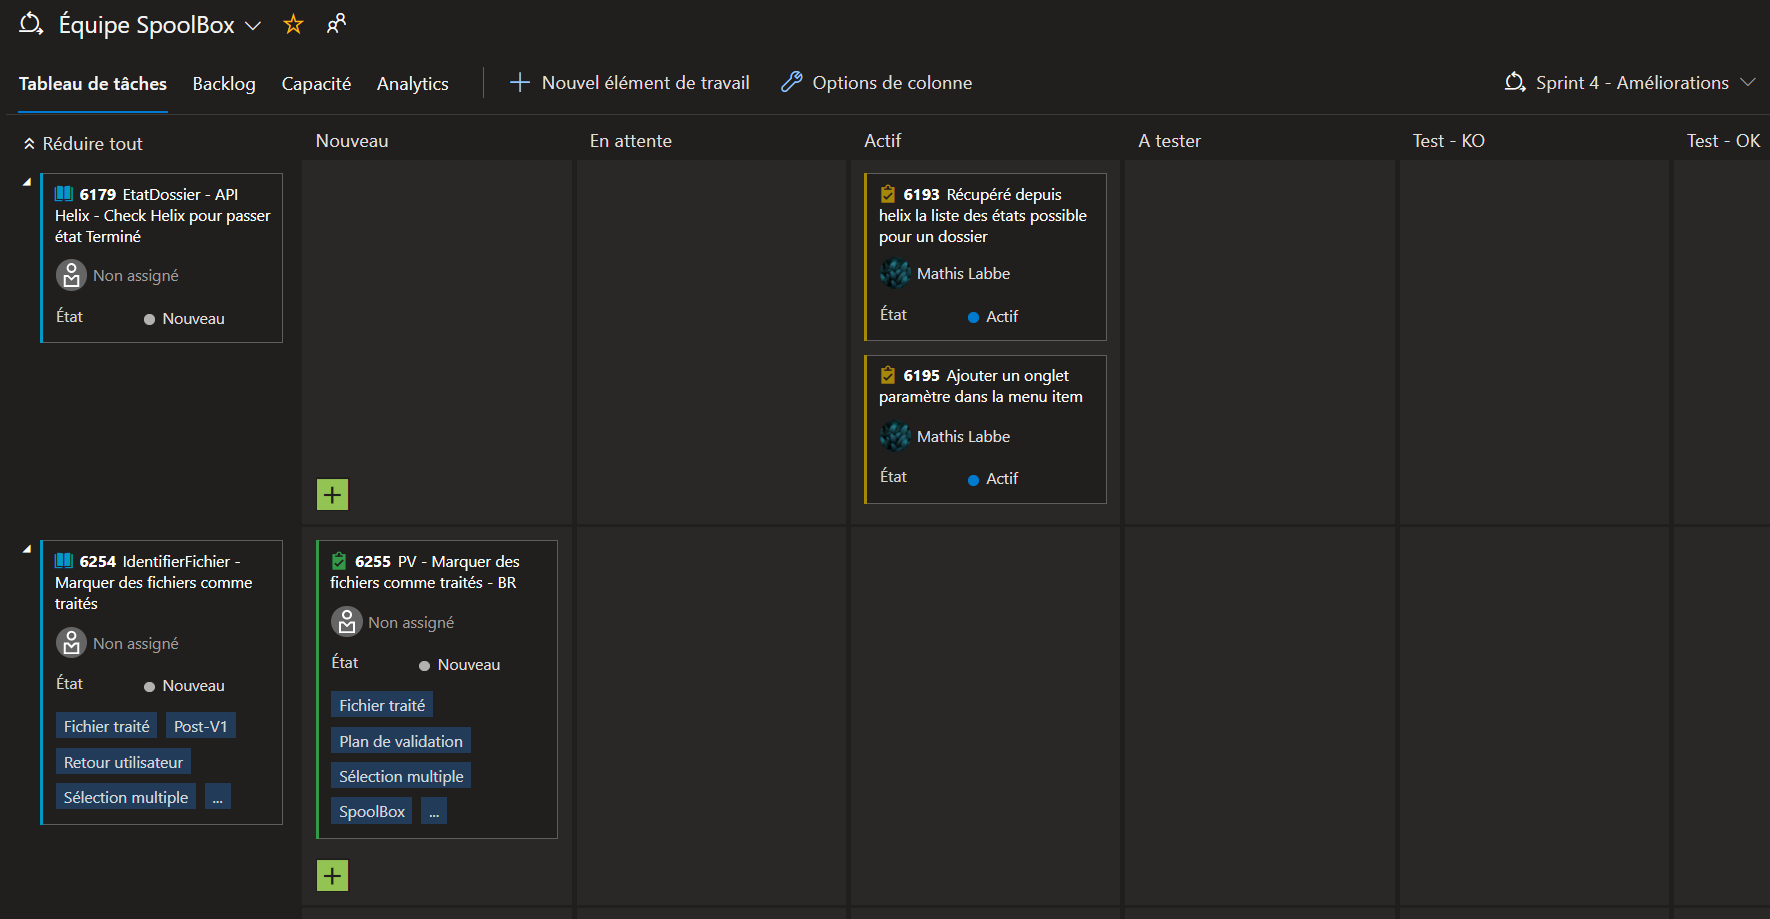
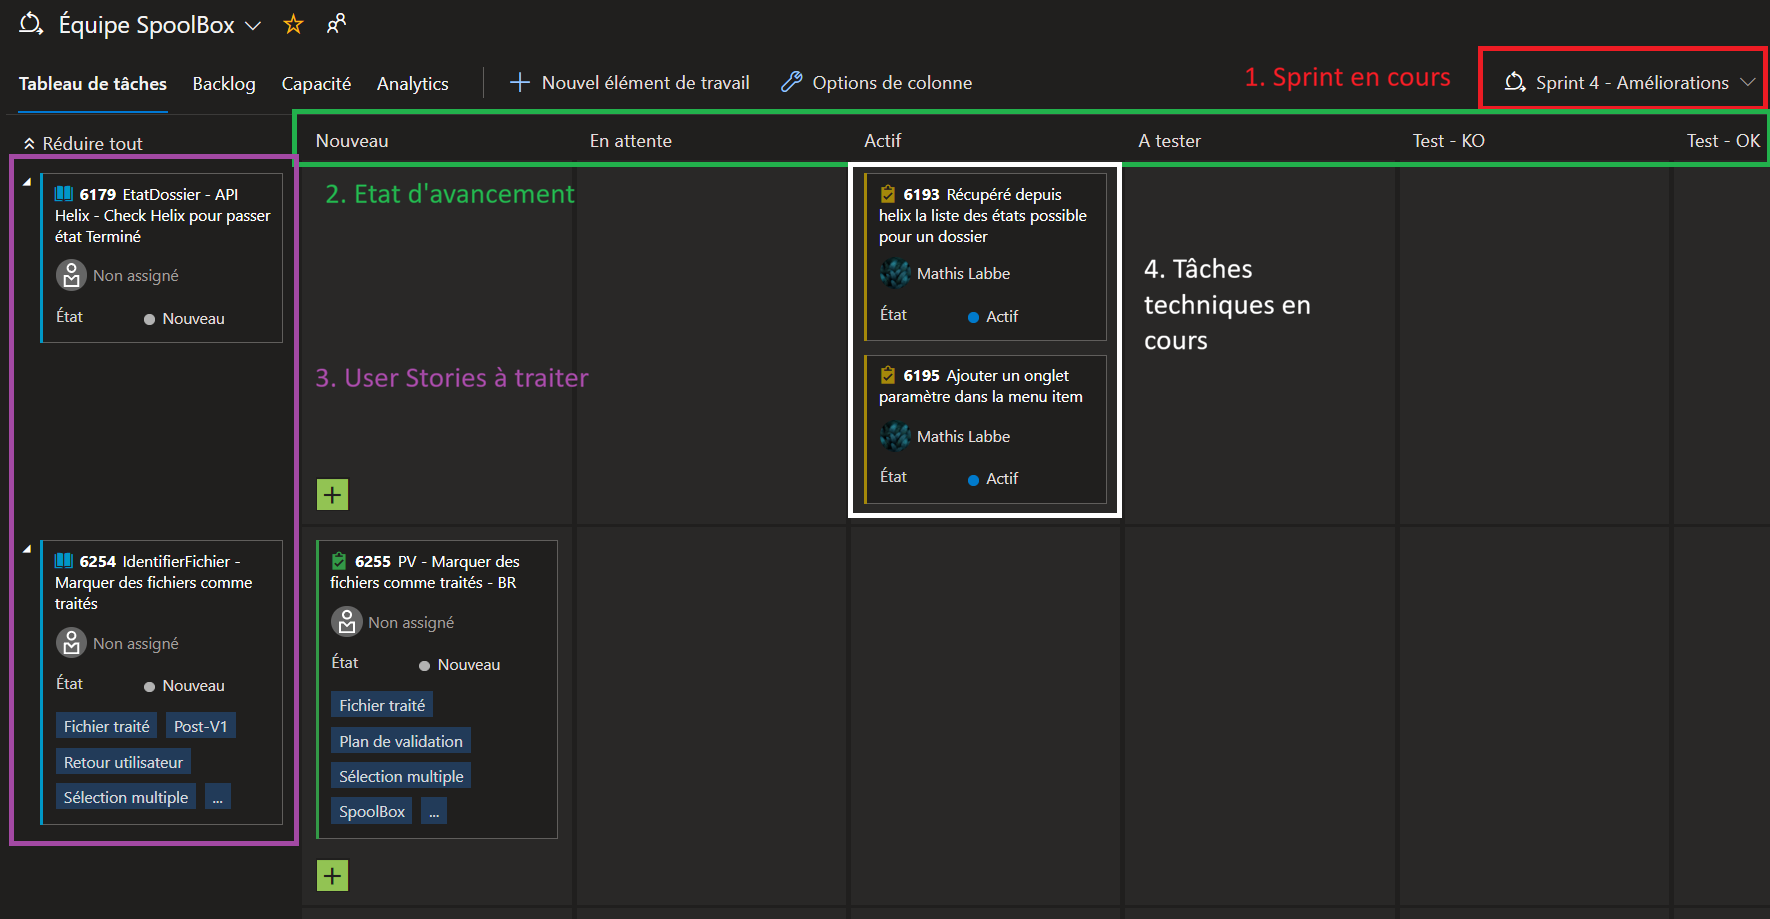
Partie 2

diff --git a/suivi-projet.html b/suivi-projet.html
@@ -51,142 +51,287 @@
 
         <div class="sub-content">
           <article id="suivi-sprint" class="subpage active" data-group="suivi">
-            <h3>Découper une User Story en tâches techniques</h3>
+            <h3>Suivre l'avancement d'un sprint avec Azure DevOps</h3>
+
             <div class="tag-list">
               <span class="tag projet-color">Comprendre une User Story</span>
-              <span class="tag projet-color">Créer des tâches techniques</span>
-              <span class="tag projet-color">Estimer la difficulté</span>
+              <span class="tag technique-color">Gérer des tâches techniques</span>
+              <span class="tag integration-color">Suivre l'avancement</span>
             </div>
 
             <figure class="trace">
-              <div class="trace-placeholder">
-                <strong>Trace 4 à insérer</strong>
-                <span>Capture Azure DevOps : sprint, User Stories et tâches</span>
-                <small>Nom conseillé : assets/images/trace-4-sprint-devops.png</small>
+              <div class="trace-image">
+                <img src="assets/images/SprintDevOps.png" alt="Tableau de tâches Azure DevOps du sprint SpoolBox">
               </div>
+
               <figcaption>
-                Trace 4 - Sprint Azure DevOps montrant les User Stories, les tâches techniques et leur
-                avancement.
+                Trace 4 - Tableau de tâches Azure DevOps du sprint 4 du projet SpoolBox. Cette capture montre
+                le sprint en cours, les colonnes d'avancement, les User Stories à traiter et les tâches techniques
+                actuellement actives.
               </figcaption>
             </figure>
 
             <p>
-              La <strong>trace 4</strong> montre l'organisation du travail dans Azure DevOps. Une User Story
-              correspond à une tâche fonctionnelle. Pour avancer concrètement, je dois ensuite la découper
-              en tâches techniques plus précises.
+              La <strong>trace 4</strong> présente le tableau de tâches Azure DevOps utilisé pendant le
+              <strong>sprint 4 - Améliorations</strong> du projet SpoolBox. Il permet de suivre l'organisation du travail
+              pendant un sprint, depuis les éléments à faire jusqu'aux tâches terminées ou à tester.
             </p>
+
             <p>
-              Ce fonctionnement m'a permis de développer le savoir-faire <span class="mark projet-color">traduire
-              un besoin fonctionnel en tâches techniques</span>. Je dois comprendre ce qui est demandé, identifier
-              les étapes de développement, puis estimer la difficulté avec l'équipe.
+              Cette trace met d'abord en avant le savoir-faire
+              <span class="mark integration-color">suivre l'avancement</span>.
+              Le repère <strong>1</strong> indique le sprint en cours, ce qui permet de situer les tâches dans une période
+              de travail précise. Le repère <strong>2</strong> montre les colonnes du tableau, comme
+              <strong>Nouveau</strong>, <strong>Actif</strong>, <strong>À tester</strong>, <strong>Test - KO</strong>
+              et <strong>Test - OK</strong>. Ces colonnes permettent de visualiser rapidement l'état d'avancement de chaque
+              élément.
             </p>
+
             <p>
-              Les estimations sont discutées avec les collègues. Chacun donne une note de 0 à 10, puis l'équipe
-              échange pour identifier les difficultés possibles. Cette méthode m'aide à mieux prévoir mon travail,
-              même si l'organisation et l'anticipation restent des axes de progression pour moi.
+              On retrouve aussi le savoir-faire
+              <span class="mark projet-color">comprendre une User Story</span>.
+              Le repère <strong>3</strong> montre les User Stories à traiter. Une User Story correspond à un besoin ou à une
+              amélioration demandée sur l'application. Avant de développer, je dois comprendre l'objectif du ticket, identifier
+              ce qui est attendu et repérer les parties du projet concernées.
+            </p>
+
+            <p>
+              Enfin, cette trace illustre le savoir-faire
+              <span class="mark technique-color">gérer des tâches techniques</span>.
+              Le repère <strong>4</strong> montre des tâches placées dans la colonne <strong>Actif</strong>. Cela signifie
+              qu'elles sont en cours de développement. Certaines tâches me sont assignées, ce qui montre ma participation
+              directe au sprint et au développement de SpoolBox.
+            </p>
+
+            <p>
+              Cette organisation m'aide à mieux structurer mon travail. Au lieu de travailler uniquement sur le code, je dois
+              aussi suivre l'état de mes tâches, expliquer mon avancement et signaler les éventuelles difficultés. C'est un
+              point important dans mon évolution, car l'organisation, l'anticipation et le fait de rendre compte de mon activité
+              sont des compétences que je continue de développer en entreprise.
             </p>
           </article>
 
           <article id="suivi-pr" class="subpage" data-group="suivi">
             <h3>Améliorer son code grâce aux Pull Requests</h3>
+
             <div class="tag-list">
-              <span class="tag projet-color">Soumettre son code</span>
-              <span class="tag technique-color">Corriger après revue</span>
-              <span class="tag integration-color">Accepter les retours</span>
+              <span class="tag projet-color">Préparer une Pull Request</span>
+              <span class="tag technique-color">Comparer et corriger le code</span>
+              <span class="tag integration-color">Prendre en compte les retours</span>
             </div>
 
             <figure class="trace">
-              <div class="trace-placeholder">
-                <strong>Trace 5 à insérer</strong>
-                <span>Capture d'une Pull Request ou d'une revue de code</span>
-                <small>Nom conseillé : assets/images/trace-5-pull-request.png</small>
+              <div class="trace-image">
+                <img src="assets/images/RevueDeCode.png" alt="Pull Request Azure DevOps avec comparaison de code">
               </div>
+
               <figcaption>
-                Trace 5 - Exemple de Pull Request avec relecture du code par un collègue et retours à
-                prendre en compte.
+                Trace 5 - Pull Request Azure DevOps sur le projet SpoolBox. Cette capture montre le fichier modifié,
+                la comparaison du code avant/après correction et l'étape de revue avant la fusion vers la branche principale.
               </figcaption>
             </figure>
 
             <p>
-              La <strong>trace 5</strong> présente une Pull Request. Lorsqu'une fonctionnalité est terminée,
-              le code peut être relu par un collègue. Cette relecture permet de repérer des erreurs, de proposer
-              une meilleure solution ou d'améliorer la lisibilité du code.
+              La <strong>trace 5</strong> présente une Pull Request réalisée sur le projet SpoolBox. Une Pull Request
+              permet de proposer des modifications de code avant de les intégrer dans la branche principale du projet.
+              Dans cette capture, le travail est proposé depuis une branche de développement vers la branche
+              <strong>main</strong>.
             </p>
+
             <p>
-              Ce savoir-faire est important car le développement en entreprise ne consiste pas seulement à faire
-              fonctionner son code. Il faut aussi produire un code compréhensible, maintenable et conforme aux
-              règles de l'équipe.
+              Cette trace met d'abord en avant le savoir-faire
+              <span class="mark projet-color">préparer une Pull Request</span>.
+              Le repère <strong>1</strong> montre le fichier modifié, ici
+              <strong>SpoolBox_TabControl.xaml.cs</strong>, ainsi que le nombre de lignes supprimées et ajoutées.
+              Cela permet d'identifier rapidement les parties du projet concernées par la modification.
             </p>
+
             <p>
-              Au départ, recevoir des retours peut être frustrant, car cela donne l'impression que le travail
-              n'est pas terminé. Avec l'expérience, j'ai compris que la revue de code est surtout un moyen de
-              progresser et d'éviter que des erreurs arrivent en production.
+              On retrouve aussi le savoir-faire
+              <span class="mark technique-color">comparer et corriger le code</span>.
+              Le repère <strong>2</strong> montre la comparaison entre l'ancienne version du code et la nouvelle version.
+              Les lignes rouges correspondent au code supprimé ou remplacé, tandis que les lignes vertes correspondent
+              au code ajouté. Cette vue permet de vérifier précisément ce qui a changé avant d'accepter la modification.
+            </p>
+
+            <p>
+              Enfin, cette trace illustre le savoir-faire
+              <span class="mark integration-color">prendre en compte les retours</span>.
+              Le repère <strong>3</strong> montre que les commentaires de revue sont résolus et que la Pull Request peut
+              passer à l'étape de validation. La revue de code permet à l'équipe de contrôler la qualité du code, de
+              proposer des améliorations et d'éviter d'intégrer des erreurs dans le projet.
+            </p>
+
+            <p>
+              Cette méthode m'a fait progresser dans ma manière de travailler. Je dois produire un code lisible, maintenable et conforme aux règles de
+              l'équipe. Les Pull Requests m'aident donc à prendre du recul sur mon travail, à accepter les corrections et
+              à améliorer progressivement ma qualité de développement.
             </p>
           </article>
 
           <article id="suivi-burndown" class="subpage" data-group="suivi">
-            <h3>Suivre l'avancement d'un sprint</h3>
+            <h3>Suivre l'avancement d'un sprint avec un burndown chart</h3>
+
             <div class="tag-list">
               <span class="tag projet-color">Suivre les points restants</span>
-              <span class="tag projet-color">Identifier les blocages</span>
+              <span class="tag technique-color">Analyser l'avancement</span>
               <span class="tag integration-color">Rendre compte de son activité</span>
             </div>
 
             <figure class="trace">
-              <div class="trace-placeholder">
-                <strong>Trace 6 à insérer</strong>
-                <span>Capture du burndown chart ou du suivi des points restants</span>
-                <small>Nom conseillé : assets/images/trace-6-burndown-chart.png</small>
+              <div class="trace-image">
+                <img src="assets/images/SuiviDuSprint.png" alt="Burndown chart Azure DevOps du sprint SpoolBox">
               </div>
+
               <figcaption>
-                Trace 6 - Suivi de l'avancement d'un sprint à partir des points restants et des tâches
-                terminées.
+                Trace 6 - Burndown chart Azure DevOps du sprint SpoolBox. Cette capture montre l'évolution
+                des points restants, la portée totale du sprint et la tendance idéale attendue.
               </figcaption>
             </figure>
 
             <p>
-              La <strong>trace 6</strong> montre le suivi d'avancement du sprint. Les tâches sont estimées en
-              points, ce qui permet de suivre la quantité de travail restante plutôt que seulement le nombre de
-              tâches terminées.
+              La <strong>trace 6</strong> présente le burndown chart d'un sprint du projet SpoolBox. Ce graphique
+              permet de suivre l'avancement du travail sur une période donnée, ici du <strong>05/05/2026</strong>
+              au <strong>12/06/2026</strong>. Il donne une vision globale du travail restant et permet de vérifier
+              si le sprint avance correctement.
             </p>
+
             <p>
-              Ce fonctionnement m'aide à mieux visualiser l'état du projet. Tous les matins, la daily permet de
-              dire ce qui a été fait la veille, ce qui est prévu aujourd'hui et les éventuels blocages.
+              Cette trace met d'abord en avant le savoir-faire
+              <span class="mark projet-color">suivre les points restants</span>.
+              Le graphique affiche le nombre de points restants au fil du temps. Dans cette capture, le sprint est
+              terminé à <strong>100%</strong> et le nombre de points restants est à <strong>0</strong>. Cela permet
+              de voir rapidement que les éléments prévus ont été réalisés.
             </p>
+
             <p>
-              Cette méthode m'a fait progresser sur le savoir-faire <span class="mark integration-color">rendre
-              compte de mon activité</span>. C'est encore un point que je dois améliorer, car j'ai parfois du mal à
-              valoriser ce que j'ai fait et je vois plus facilement les difficultés que les réussites.
+              On retrouve aussi le savoir-faire
+              <span class="mark technique-color">analyser l'avancement</span>.
+              La zone bleue représente le travail restant, la courbe orange représente la portée totale du sprint,
+              et la ligne grise représente la tendance idéale. En comparant ces éléments, il est possible de voir
+              si le travail diminue progressivement ou si certaines périodes montrent un retard, une surcharge ou
+              une modification du périmètre.
+            </p>
+
+            <p>
+              Enfin, cette trace illustre le savoir-faire
+              <span class="mark integration-color">rendre compte de son activité</span>.
+              Ce type d'indicateur est utile pendant les points d'équipe, car il permet d'expliquer ce qui a été
+              fait, ce qui reste à faire et si le sprint avance comme prévu. Il ne sert pas seulement à afficher
+              des chiffres : il aide aussi à mieux communiquer sur l'état réel du projet.
+            </p>
+
+            <p>
+              Ce suivi m'a aidé à mieux comprendre l'importance de l'organisation dans un projet professionnel.
+              Avant l'alternance, j'avais plus de difficultés à prévoir les étapes d'un travail et à mesurer mon
+              avancement. Avec Azure DevOps et le burndown chart, je visualise mieux la progression du sprint et
+              je comprends davantage l'intérêt de mettre à jour régulièrement l'état de mes tâches.
             </p>
           </article>
 
           <article id="suivi-bilan" class="subpage" data-group="suivi">
             <h3>Bilan et auto-évaluation du suivi de projet</h3>
+
             <div class="analysis-block">
-              <h4>Savoir-faire général : travailler dans une organisation projet</h4>
+              <h4>Savoir-faire général : organiser son travail dans un sprint</h4>
+
               <p>
-                L'alternance chez 3maGroup m'a permis de découvrir une organisation professionnelle avec Azure
-                DevOps, les User Stories, les sprints, les estimations, les dailies et les Pull Requests. Ces
-                méthodes donnent un cadre au développement et permettent de mieux suivre l'avancement du travail.
+                Les traces 4 et 6 montrent l'organisation du travail dans Azure DevOps à travers le tableau de tâches
+                et le burndown chart. Les savoir-faire associés sont
+                <span class="mark projet-color">comprendre une User Story</span>,
+                <span class="mark technique-color">gérer des tâches techniques</span>,
+                <span class="mark integration-color">suivre l'avancement</span> et
+                <span class="mark projet-color">suivre les points restants</span>.
               </p>
+
               <p>
-                Avant l'alternance, j'avais des difficultés à organiser mon travail, à planifier et à prévoir les
-                étapes d'un projet. Aujourd'hui, je comprends mieux comment découper une demande en tâches et comment
-                rendre compte de mon avancement. Mon niveau est <strong>correct mais encore perfectible</strong> : je
-                progresse, mais je dois encore améliorer mon anticipation et ma proactivité.
+                Dans le contexte du projet SpoolBox, ces outils permettent de suivre le travail à réaliser pendant un sprint.
+                Les User Stories représentent les besoins ou améliorations attendues, tandis que les tâches techniques
+                permettent de découper le travail en étapes plus concrètes. Le tableau Azure DevOps aide à savoir ce qui est
+                nouveau, en cours, à tester ou terminé.
+              </p>
+
+              <p>
+                La principale difficulté pour moi a été de mieux anticiper les étapes d'un développement. Au début, j'avais
+                tendance à me concentrer surtout sur la réalisation technique, sans toujours bien prévoir le découpage ou le
+                temps nécessaire. Aujourd'hui, je comprends mieux l'intérêt de structurer mon travail avant de développer.
+              </p>
+
+              <p>
+                Mon niveau est <strong>correct mais encore en progression</strong>. Je sais utiliser le tableau de tâches,
+                comprendre les éléments qui me sont assignés et suivre leur avancement. Je dois encore progresser sur
+                l'anticipation, l'estimation de la difficulté et la proactivité lorsque je rencontre un blocage.
               </p>
             </div>
 
             <div class="analysis-block">
               <h4>Savoir-faire général : collaborer autour du code</h4>
+
               <p>
-                Les Pull Requests m'ont appris que le code est un travail collectif. Les retours de collègues me
-                permettent d'améliorer mes solutions et de respecter les conventions internes. Ce savoir-faire a été
-                appris principalement en entreprise, car il dépend fortement des méthodes de l'équipe.
+                La trace 5 montre l'utilisation d'une Pull Request dans Azure DevOps. Les savoir-faire associés sont
+                <span class="mark projet-color">préparer une Pull Request</span>,
+                <span class="mark technique-color">comparer et corriger le code</span> et
+                <span class="mark integration-color">prendre en compte les retours</span>.
               </p>
+
               <p>
-                Je suis plus à l'aise qu'au début pour demander de l'aide, expliquer un problème et accepter des
-                corrections. Je dois encore progresser dans ma capacité à analyser mon code avant de le soumettre.
+                Dans le contexte de SpoolBox, une Pull Request permet de proposer des modifications avant de les intégrer
+                dans la branche principale du projet. La comparaison du code permet de voir précisément les lignes supprimées,
+                ajoutées ou modifiées. La validation par l'équipe permet de sécuriser l'intégration du code.
+              </p>
+
+              <p>
+                Ce savoir-faire a été appris progressivement grâce aux méthodes de travail de l'équipe. En entreprise, le code
+                ne doit pas seulement fonctionner : il doit aussi être lisible, maintenable et cohérent avec les règles internes.
+                Les retours des collègues permettent donc d'améliorer la qualité du code avant son intégration.
+              </p>
+
+              <p>
+                La difficulté principale est d'accepter que le code puisse être corrigé ou amélioré après une première version.
+                Au départ, une remarque sur une Pull Request peut donner l'impression que le travail n'est pas terminé ou pas
+                assez bon. Avec l'expérience, j'ai compris que la revue de code est surtout un outil de progression et de qualité.
+              </p>
+
+              <p>
+                Mon niveau est <strong>intermédiaire en progression</strong>. Je comprends mieux l'intérêt des Pull Requests
+                et je suis plus à l'aise avec les retours. Je dois encore améliorer ma capacité à relire mon propre code avant
+                de le proposer, afin d'identifier moi-même certaines erreurs ou améliorations possibles.
+              </p>
+            </div>
+
+            <div class="analysis-block">
+              <h4>Savoir-faire général : rendre compte de son activité</h4>
+
+              <p>
+                Les traces liées au tableau de tâches et au burndown chart montrent aussi un autre savoir-faire important :
+                <span class="mark integration-color">rendre compte de son activité</span>. Il ne suffit pas d'avancer sur
+                une tâche, il faut aussi être capable d'expliquer ce qui a été fait, ce qui est en cours et ce qui bloque
+                éventuellement.
+              </p>
+
+              <p>
+                Dans l'équipe Desktop, ce suivi se fait notamment à travers les points réguliers et la mise à jour des tâches
+                dans Azure DevOps. Le burndown chart permet de visualiser
+                <span class="mark projet-color">l'évolution des points restants</span> et de voir si le sprint avance
+                correctement. Il donne une vision plus globale que le simple fait de terminer une tâche individuellement.
+              </p>
+
+              <p>
+                Ce savoir-faire est important dans mon alternance, car il montre ma capacité à m'intégrer dans une équipe projet.
+                En tant qu'alternant développeur, je dois apprendre à expliquer mon avancement clairement, à signaler mes difficultés
+                et à montrer que mon travail s'inscrit dans l'avancement global du projet.
+              </p>
+
+              <p>
+                C'est encore un axe de progression pour moi. J'ai parfois tendance à voir d'abord les problèmes ou ce qui n'est pas
+                terminé, plutôt que de valoriser ce que j'ai déjà réalisé. Je dois donc continuer à progresser dans ma manière de
+                présenter mon travail et de communiquer sur mon activité.
+              </p>
+
+              <p>
+                Mon niveau est <strong>en progression</strong>. Par rapport au début de l'alternance, je comprends mieux comment
+                suivre mon avancement et le rendre visible pour l'équipe. Je dois maintenant gagner en aisance à l'oral, être plus
+                régulier dans mes retours et prendre davantage l'initiative lorsque j'ai besoin d'aide ou de validation.
               </p>
             </div>
           </article>